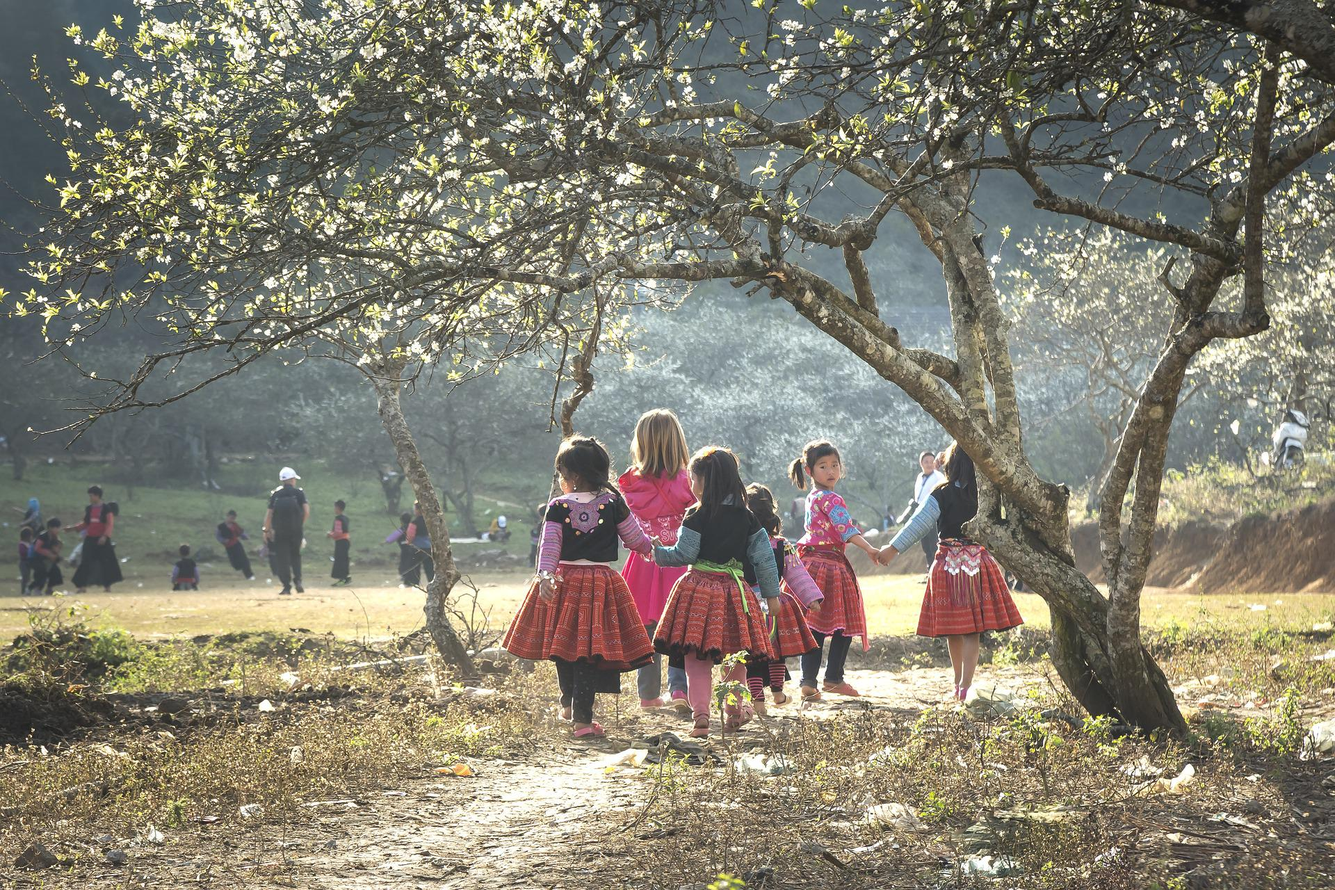
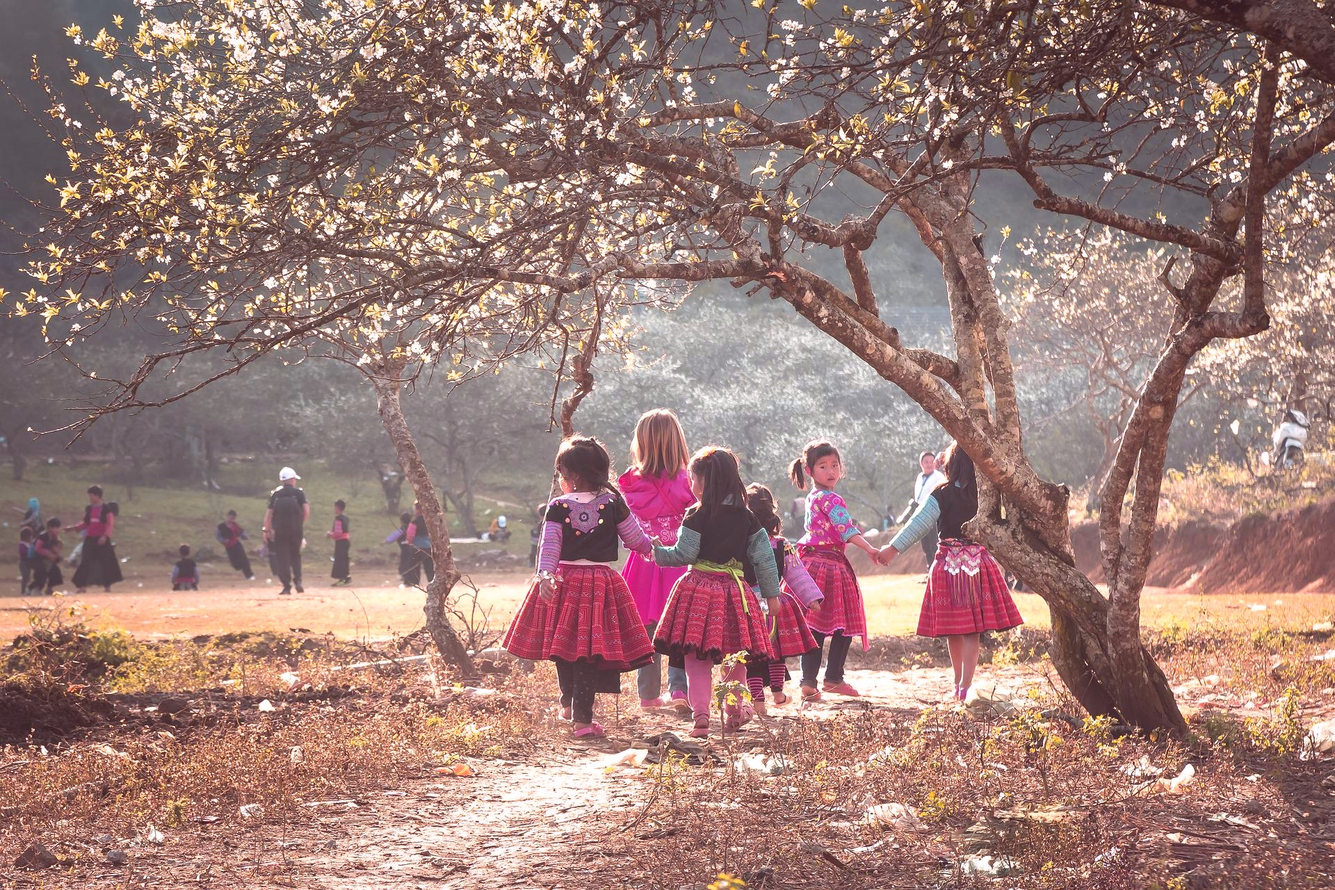
feat:test:add edited photo 2 to about page and changed new p font color

diff --git a/about.html b/about.html
@@ -32,25 +32,25 @@
 <div class="parallax-1">
   <img src="./css/assets/img/fresno.jpg" style="height:auto;width:100vw" alt="photo of fresno">
 </div>
-<p class="mt-3 ms-5 px-5 text-center" style="color:white;height:220px;font-size:30px">
+<p class="mt-3 ms-5 px-5 text-center" style="color:rgb(4, 217, 255);height:220px;font-size:30px">
 Scroll Up and Down this page to see the parallax scrolling effect.
 This div is just here to enable scrolling.
 Tip: Try to remove the background-attachment property to remove the scrolling effect.
 </p>
 <div class="parallax-1"></div>
 <div class="parallax-2">
-  <img src="./css/assets/img/profile-img.JPEG" style="height:auto;width:100vw" alt="photo of maiyang lor">
+  <img src="./css/assets/img/new-year.jpg" style="height:auto;width:100vw" alt="photo of hmong children">
 </div>
-<p style="height:300px;font-size:30px" style="color:white;height:220px;font-size:30px">
-Scroll Up and Down this page to see the parallax scrolling effect.
+<p class="mt-3 ms-5 px-5 text-center" style="color:rgb(4, 217, 255);height:220px;font-size:30px">
+  Scroll Up and Down this page to see the parallax scrolling effect.
 This div is just here to enable scrolling.
 Tip: Try to remove the background-attachment property to remove the scrolling effect.
 </p>
 <div class="parallax-2"></div>
 <div class="parallax-3">
-  <img src="./css/assets/img/new-year.jpg" style="height:auto;width:100vw" alt="photo of hmong children">
+  <img src="./css/assets/img/profile-img.JPEG" style="height:auto;width:100vw" alt="photo of maiyang lor">
 </div>
-<p style="height:300px;font-size:30px" style="color:white;height:220px;font-size:30px">
+<p class="mt-3 ms-5 px-5 text-center" style="color:rgb(4, 217, 255);height:220px;font-size:30px">
 Scroll Up and Down this page to see the parallax scrolling effect.
 This div is just here to enable scrolling.
 Tip: Try to remove the background-attachment property to remove the scrolling effect.

diff --git a/css/about.css b/css/about.css
@@ -4,9 +4,6 @@
 body {
     margin: 0;
     padding: 0; 
-    color: rgb(41, 23, 86); 
-    background-size: cover;
-    height:100vh; 
 }
 /*nav bar here*/ 
 .navbar-brand {
@@ -27,7 +24,6 @@ body {
   background-size:cover;
   height:100vh;
   width:100vw;
-  position:relative; 
 }
 .parallax-2 {
   background-image:url('../css/assets/img/new-year.jpg');  
@@ -37,12 +33,12 @@ body {
   background-size:cover;
   height:100vh;
   width:100vw;
-  position:relative; 
 }
 p {
   margin-left:6em; 
   font-family: 'Merriweather', serif;
   text-align:center; 
+  color:white; 
 }
 /*footer*/
 footer {
@@ -52,6 +48,7 @@ footer {
 h6 {
   font-family: 'Merriweather', serif;
   font-size:xx-small; 
+  color:rgb(4, 217, 255); 
 }
 .media-icon {
   margin-top:-2em;
@@ -59,20 +56,30 @@ h6 {
   padding:0;
 }
 /*media queries*/
+/*media queries*/
 @media only screen 
 and (min-width:320px) 
 and (max-width:480px) 
 and (-webkit-min-device-pixel-ratio:2) {
+    body {
+      background-color: rgb(36, 39, 101);
+    }
   }
 
 @media only screen
 and (min-width:768px) 
 and (max-width:1024px) 
 and (-webkit-min-device-pixel-ratio:1) {
+    body {
+      background-color: rgb(10, 0, 43);
+    }
   }
 @media only screen 
 and (min-width:1200px)
 and (max-width:1600px) 
 and (-webkit-min-device-pixel-ratio:1) {
+    body {
+      background-color: rgb(44, 8, 51);
+    }
   }
   
